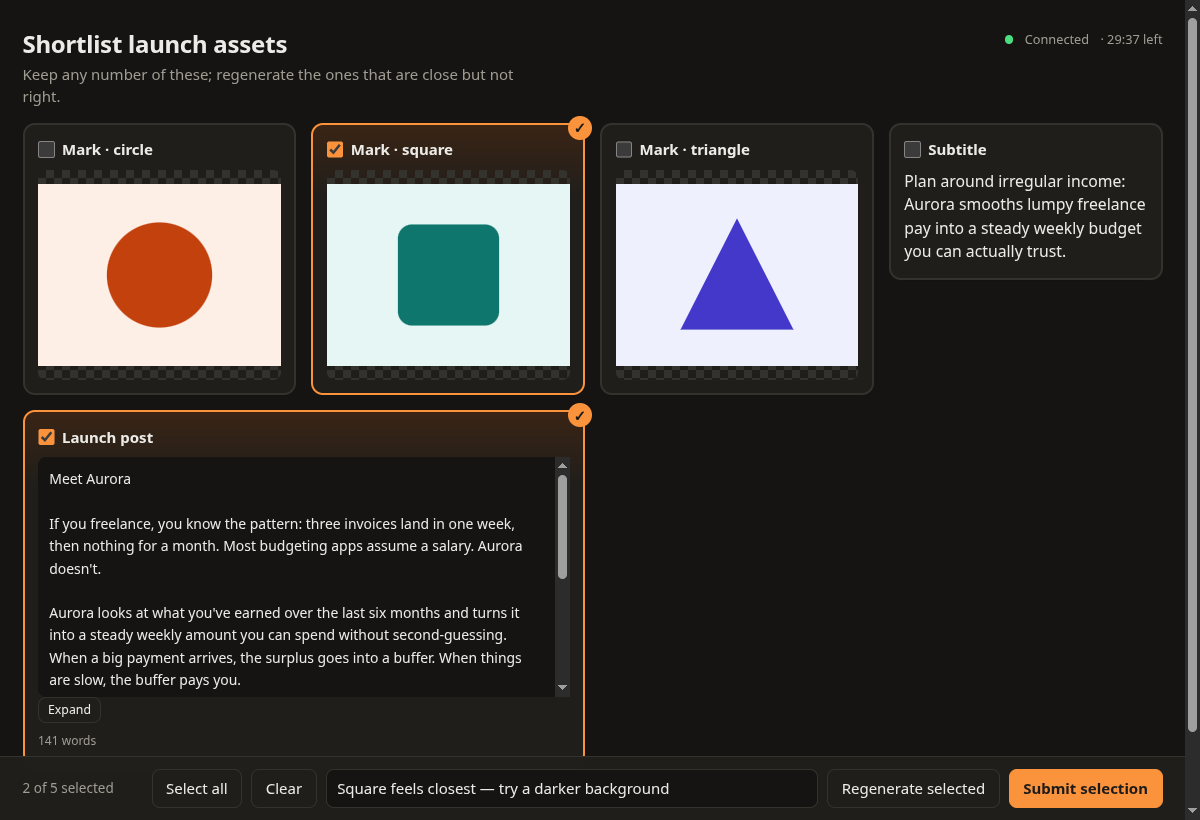
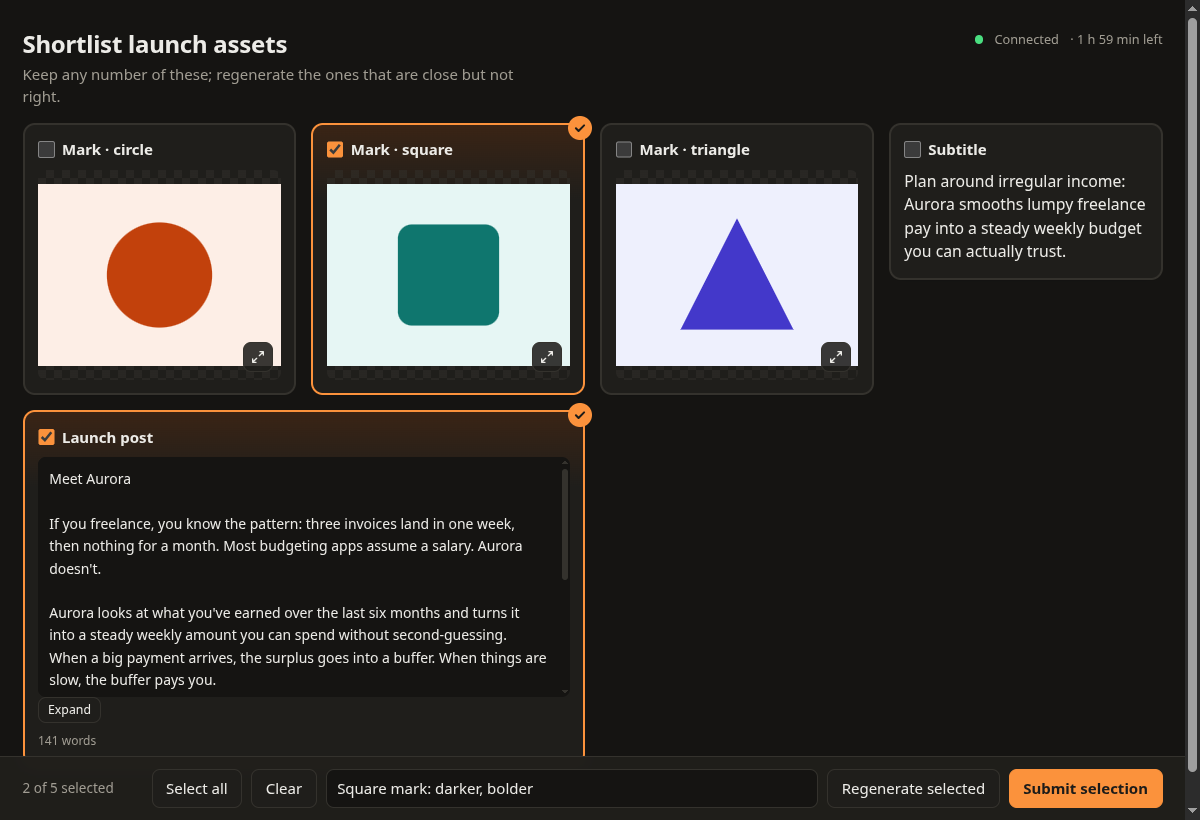
ui: image click selects, status in bar, mobile footer fix, a11y polish
From an impeccable critique + audit + polish pass on the picker page:
- image click toggles selection; full-size view moves to a corner button
- status banner lives in the fixed bar and names what was sent
- page reserves the bar's measured height (bar covered ~75px on phones)
- timer no longer inside a live region; h/min format, warns under 5 min
- server refusals shown inline instead of alert(); 401 locks the page
- placeholder contrast to AA, Ctrl/Cmd+Enter submits, drawn SVG icons
- refreshed README screenshots

diff --git a/skills/claude-select/scripts/ui.html b/skills/claude-select/scripts/ui.html
@@ -25,44 +25,48 @@
   button:disabled { opacity: .45; cursor: not-allowed; }
   button.primary { background: var(--accent); border-color: var(--accent); color: var(--on-accent); font-weight: 600; }
   :focus-visible { outline: 2px solid var(--accent); outline-offset: 2px; }
+  ::selection { background: color-mix(in srgb, var(--accent) 28%, transparent); }
+  svg { display: block; fill: none; stroke: currentColor; stroke-linecap: round; stroke-linejoin: round; }
 
   header.top { max-width: 80rem; margin: 0 auto; padding: 2rem 1.5rem 1rem; display: flex; gap: 1rem;
                align-items: flex-start; justify-content: space-between; flex-wrap: wrap; }
   h1 { font-size: 1.6rem; line-height: 1.2; margin: 0 0 .25rem; letter-spacing: -.01em; }
   .desc { color: var(--muted); margin: 0; max-width: 60ch; white-space: pre-wrap; }
-  .meta-row { display: flex; gap: .75rem; align-items: center; color: var(--muted); font-size: .85rem; }
+  .meta-row { display: flex; gap: .75rem; align-items: center; color: var(--muted); font-size: .85rem;
+              font-variant-numeric: tabular-nums; }
+  .late #timer { color: var(--warn); font-weight: 600; }
   .dot { width: .55rem; height: .55rem; border-radius: 50%; background: var(--ok); display: inline-block; }
   .offline .dot { background: var(--warn); animation: pulse 1s infinite alternate; }
   @keyframes pulse { to { opacity: .3; } }
 
-  .banner { max-width: 80rem; margin: 0 auto 1rem; padding: 0 1.5rem; }
-  .banner p { margin: 0; padding: .75rem 1rem; border-radius: var(--radius); background: var(--accent-soft); }
-  .banner:empty { display: none; }
-
-  main { max-width: 80rem; margin: 0 auto; padding: 0 1.5rem 9rem; display: grid; gap: 1rem;
-         grid-template-columns: repeat(auto-fill, minmax(18rem, 1fr)); align-items: start; }
+  main { max-width: 80rem; margin: 0 auto; padding: 0 1.5rem calc(var(--bar-h, 9rem) + 1.5rem); display: grid; gap: 1rem;
+         grid-template-columns: repeat(auto-fill, minmax(min(18rem, 100%), 1fr)); align-items: start; }
   @media (min-width: 44rem) { .card[data-type="long_text"] { grid-column: span 2; } }
 
   .card { position: relative; background: var(--surface); border: 2px solid var(--line); border-radius: var(--radius);
           box-shadow: var(--shadow); padding: .9rem; display: flex; flex-direction: column; gap: .6rem;
-          cursor: pointer; transition: border-color .12s, transform .12s; }
+          cursor: pointer; transition: border-color .12s; }
   .card:hover { border-color: var(--muted); }
   .card:has(input:checked) { border-color: var(--accent); background: linear-gradient(var(--accent-soft), var(--surface) 5rem); }
   .card .head { display: flex; align-items: center; gap: .5rem; }
   .card label { display: flex; align-items: center; gap: .5rem; font-weight: 600; cursor: pointer; flex: 1; min-width: 0; }
-  .card label span { overflow: hidden; text-overflow: ellipsis; white-space: nowrap; }
+  .card label span { overflow-wrap: anywhere; }
   .card input { accent-color: var(--accent); width: 1.1rem; height: 1.1rem; margin: 0; flex: none; }
   .badge { font-size: .72rem; color: var(--muted); border: 1px solid var(--line); border-radius: 99px; padding: 0 .45rem; }
   .check { position: absolute; top: -.6rem; right: -.6rem; width: 1.6rem; height: 1.6rem; border-radius: 50%;
-           background: var(--accent); color: var(--on-accent); display: none; place-items: center; font-weight: 700; }
+           background: var(--accent); color: var(--on-accent); display: none; place-items: center; }
   .card:has(input:checked) .check { display: grid; }
 
-  .zoom { padding: 0; border: 0; background: repeating-conic-gradient(var(--line) 0 25%, transparent 0 50%) 0 0 / 16px 16px;
-          border-radius: 8px; overflow: hidden; display: block; width: 100%; cursor: zoom-in; }
-  .zoom img { display: block; width: 100%; height: 14rem; object-fit: contain; }
+  /* Checkerboard shows transparency in images; kept faint so letterboxing doesn't read as a glitch. */
+  .frame { position: relative; border-radius: 8px; overflow: hidden;
+           background: repeating-conic-gradient(color-mix(in srgb, var(--line) 45%, transparent) 0 25%, transparent 0 50%) 0 0 / 16px 16px; }
+  .frame img { display: block; width: 100%; height: 14rem; object-fit: contain; }
+  .zoom { position: absolute; right: .5rem; bottom: .5rem; padding: .4rem; display: grid; place-items: center;
+          background: color-mix(in srgb, var(--surface) 88%, transparent); cursor: zoom-in; }
   .short { margin: 0; font-size: 1.05rem; white-space: pre-wrap; overflow-wrap: anywhere; }
   .long { white-space: pre-wrap; overflow-wrap: anywhere; max-height: 16rem; overflow: auto; padding: .75rem;
-          border-radius: 8px; background: var(--bg); font-size: .93rem; line-height: 1.6; }
+          border-radius: 8px; background: var(--bg); font-size: .93rem; line-height: 1.6;
+          scrollbar-width: thin; scrollbar-color: var(--line) transparent; }
   .long.open { max-height: none; }
   .more { align-self: flex-start; padding: .2rem .6rem; font-size: .82rem; }
   .meta { font-size: .8rem; color: var(--muted); display: flex; flex-wrap: wrap; gap: .25rem .75rem; }
@@ -77,14 +81,25 @@
                backdrop-filter: blur(8px); border-top: 1px solid var(--line); }
   .bar-inner { max-width: 80rem; margin: 0 auto; padding: .8rem 1.5rem; display: flex; gap: .6rem;
                align-items: center; flex-wrap: wrap; }
-  .count { color: var(--muted); font-size: .9rem; min-width: 8rem; }
+  .count { color: var(--muted); font-size: .9rem; min-width: 8rem; font-variant-numeric: tabular-nums; }
   #feedback { flex: 1 1 16rem; font: inherit; padding: .5rem .7rem; border-radius: 8px; border: 1px solid var(--line);
-              background: var(--bg); color: var(--ink); }
+              background: var(--bg); color: var(--ink); caret-color: var(--accent); }
+  #feedback::placeholder { color: var(--muted); opacity: 1; }
+  .banner { max-width: 80rem; margin: 0 auto; padding: .8rem 1.5rem 0; }
+  .banner p { margin: 0; padding: .6rem .9rem; border-radius: 8px; background: var(--accent-soft); }
+  .banner:empty { display: none; }
+  /* Narrow: count + list actions, then the note, then the two decisions side by side. */
+  @media (max-width: 40rem) {
+    .count { flex: 1; min-width: 0; }
+    #feedback { flex-basis: 100%; }
+    #regen, #submit { flex: 1 1 auto; }
+  }
+  @media (pointer: coarse) { button, #feedback { min-height: 2.75rem; } .zoom { min-width: 2.75rem; } }
 
   dialog { border: 0; padding: 0; background: transparent; max-width: 95vw; max-height: 95vh; }
   dialog::backdrop { background: rgb(0 0 0 / .8); }
   dialog img { width: 90vw; height: 90vh; object-fit: contain; display: block; cursor: zoom-out; }
-  @media (prefers-reduced-motion: reduce) { * { animation: none !important; transition: none !important; } }
+  @media (prefers-reduced-motion: reduce) { .offline .dot { animation: none; } }
 </style>
 </head>
 <body>
@@ -93,20 +108,21 @@
     <h1 id="title">Loading…</h1>
     <p class="desc" id="desc"></p>
   </div>
-  <div class="meta-row" id="conn" aria-live="polite"><span class="dot"></span><span id="conn-text">Connected</span>
+  <div class="meta-row" id="conn"><span class="dot"></span><span id="conn-text" aria-live="polite">Connected</span>
     <span id="timer"></span></div>
 </header>
-<div class="banner" id="banner" role="status" aria-live="polite"></div>
 <main id="grid" aria-label="Options"></main>
-<footer class="bar">
+<footer class="bar" id="bar">
+  <!-- Status lives in the bar, next to the buttons that cause it, so it is never scrolled out of view. -->
+  <div class="banner" id="banner" role="status" aria-live="polite"></div>
   <div class="bar-inner">
     <span class="count" id="count" aria-live="polite"></span>
     <button id="all" hidden>Select all</button>
     <button id="clear" hidden>Clear</button>
-    <input id="feedback" type="text" placeholder="Optional note for the agent (what to change, why you picked it)"
-           aria-label="Feedback for the agent" maxlength="2000">
+    <input id="feedback" type="text" placeholder="Optional note for the agent"
+           aria-label="Note for the agent: what to change, or why you picked it" maxlength="2000">
     <button id="regen">Regenerate selected</button>
-    <button id="submit" class="primary">Submit selection</button>
+    <button id="submit" class="primary" title="Ctrl+Enter" aria-keyshortcuts="Control+Enter Meta+Enter">Submit selection</button>
   </div>
 </footer>
 <dialog id="viewer" aria-label="Full-size image"></dialog>
@@ -118,6 +134,9 @@ let S = null;            // last session snapshot from the server
 let selected = new Set();
 let sending = false;     // an event is in flight (possibly retrying)
 let online = true;
+let error = '';          // last refusal from the server, shown until the next send
+const ICON_CHECK = '<svg width="14" height="14" viewBox="0 0 24 24" stroke-width="3.5"><path d="M5 12.5l4.5 4.5L19 7.5"/></svg>';
+const ICON_ZOOM = '<svg width="16" height="16" viewBox="0 0 24 24" stroke-width="2"><path d="M15 4h5v5M9 20H4v-5M20 4l-6 6M4 20l6-6"/></svg>';
 
 async function api(path, body) {
   const r = await fetch(path, {
@@ -144,6 +163,9 @@ function el(tag, props = {}, ...kids) {
   n.append(...kids.filter(k => k != null));
   return n;
 }
+// Assigning the same text still replaces the node, which makes screen readers repeat live regions.
+function setText(n, s) { if (n.textContent !== s) n.textContent = s; }
+const label = it => (it.metadata || {}).label || (it.metadata || {}).title || it.id;
 
 function card(it, prevRev) {
   const type = S.mode === 'single' ? 'radio' : 'checkbox';
@@ -153,21 +175,24 @@ function card(it, prevRev) {
     saveSel(); sync();
   });
   const md = it.metadata || {};
-  const title = md.label || md.title || it.id;
+  const title = label(it);
   const head = el('div', { className: 'head' },
-    el('label', { htmlFor: input.id }, input, el('span', { textContent: title, title })),
+    el('label', { htmlFor: input.id }, input, el('span', { textContent: title })),
     it.revision > 1 ? el('span', { className: 'badge', textContent: 'v' + it.revision, title: 'Regenerated' }) : null);
 
   let body;
   if (it.type === 'image') {
+    // The image itself selects, like the rest of the card; zoom has its own button.
     const img = el('img', { src: it.src, alt: md.alt || title, loading: 'lazy' });
-    img.addEventListener('error', () => img.replaceWith(el('p', { className: 'short', textContent: 'Image failed to load.' })));
-    body = el('button', { className: 'zoom', type: 'button', title: 'View full size' }, img);
-    body.addEventListener('click', () => { $('viewer').replaceChildren(el('img', { src: it.src, alt: img.alt })); $('viewer').showModal(); });
+    const zoom = el('button', { className: 'zoom', type: 'button', title: 'View full size',
+                                ariaLabel: `View ${title} full size`, innerHTML: ICON_ZOOM });
+    zoom.addEventListener('click', () => { $('viewer').replaceChildren(el('img', { src: it.src, alt: img.alt })); $('viewer').showModal(); });
+    body = el('div', { className: 'frame' }, img, zoom);
+    img.addEventListener('error', () => body.replaceWith(el('p', { className: 'short', textContent: 'Image failed to load.' })));
   } else if (it.type === 'short_text') {
     body = el('p', { className: 'short', textContent: it.content });
   } else {
-    const box = el('div', { className: 'long', textContent: it.content, tabIndex: 0 });
+    const box = el('div', { className: 'long', textContent: it.content, tabIndex: 0, role: 'region', ariaLabel: title });
     const more = el('button', { className: 'more', type: 'button', textContent: 'Expand' });
     more.addEventListener('click', () => { more.textContent = box.classList.toggle('open') ? 'Collapse' : 'Expand'; });
     body = el('div', {}, box);
@@ -180,7 +205,7 @@ function card(it, prevRev) {
     .map(([k, v]) => el('span', { textContent: `${k}: ${typeof v === 'object' ? JSON.stringify(v) : v}` }));
   if (it.type === 'long_text') extra.push(el('span', { textContent: `${words.toLocaleString()} words` }));
 
-  const c = el('article', { className: 'card' }, el('span', { className: 'check', textContent: '✓', ariaHidden: 'true' }),
+  const c = el('article', { className: 'card' }, el('span', { className: 'check', innerHTML: ICON_CHECK, ariaHidden: 'true' }),
     head, body, extra.length ? el('div', { className: 'meta' }, ...extra) : null);
   c.dataset.type = it.type;
   c.dataset.id = it.id;
@@ -213,32 +238,40 @@ function sync() {
   const pending = new Set(S.pending);
   for (const c of document.querySelectorAll('.card')) {
     c.classList.toggle('regen', pending.has(c.dataset.id));
+    c.ariaBusy = String(pending.has(c.dataset.id));
     c.querySelector('input').checked = selected.has(c.dataset.id);
   }
   const open = S.status === 'open' && !pending.size && !sending;
   const n = selected.size;
-  $('count').textContent = S.mode === 'single'
+  setText($('count'), S.mode === 'single'
     ? (n ? '1 selected' : 'Pick one option')
-    : `${n} of ${S.items.length} selected`;
+    : `${n} of ${S.items.length} selected`);
   $('submit').disabled = !open || (S.mode === 'single' && n !== 1);
   $('regen').disabled = !open || !n;
   $('all').disabled = !open || n === S.items.length;
   $('clear').disabled = !open || !n;
   for (const i of document.querySelectorAll('.card input')) i.disabled = !open;
-  const msg = sending ? (online ? 'Sending…' : 'Sending… the connection dropped; retrying until it is back.')
-    : pending.size ? `The agent is regenerating ${pending.size} option${pending.size > 1 ? 's' : ''}. They update here automatically.`
-    : S.status === 'submitted' ? 'Sent. The agent has your choice. You can close this tab.'
-    : S.status === 'expired' ? 'This selection timed out. Ask the agent in chat to reopen it.'
-    : '';
-  $('banner').replaceChildren(...(msg ? [el('p', { textContent: msg })] : []));
   const r = S.remaining_s;
-  $('timer').textContent = S.status === 'open' ? `· ${Math.floor(r / 60)}:${String(r % 60).padStart(2, '0')} left` : '';
+  const late = S.status === 'open' && r < 300;
+  const picked = S.items.filter(i => selected.has(i.id)).map(label).join(', ');
+  const msg = sending ? (online ? 'Sending…' : 'Sending… the connection dropped; retrying until it is back.')
+    : error && S.status === 'open' ? error
+    : pending.size ? `The agent is regenerating ${pending.size} option${pending.size > 1 ? 's' : ''}. They update here automatically.`
+    : S.status === 'submitted' ? `Sent: ${picked || 'none of the options'}. The agent has your choice; you can close this tab.`
+    : S.status === 'expired' ? 'This selection timed out. Ask the agent in chat to reopen it.'
+    : late ? 'Under 5 minutes left. Submit soon, or this selection times out.'
+    : '';
+  if ($('banner').textContent !== msg) $('banner').replaceChildren(...(msg ? [el('p', { textContent: msg })] : []));
+  const left = r >= 3600 ? `${Math.floor(r / 3600)} h ${Math.floor(r % 3600 / 60)} min`
+    : `${Math.floor(r / 60)}:${String(r % 60).padStart(2, '0')}`;
+  setText($('timer'), S.status === 'open' ? `· ${left} left` : '');
+  $('conn').classList.toggle('late', late);
 }
 
 async function send(action) {
   const ev = { client_event_id: crypto.randomUUID(), action, selected_ids: [...selected],
                feedback: $('feedback').value };
-  sending = true; sync();
+  sending = true; error = ''; sync();
   // Retry with the same client_event_id until the server answers; it drops duplicates.
   for (;;) {
     try {
@@ -249,7 +282,7 @@ async function send(action) {
       $('feedback').value = '';
       break;
     } catch (e) {
-      if (e.status) { alert('Could not send: ' + e.message); break; }  // server said no; don't retry
+      if (e.status) { error = `Could not send (${e.message}). The page refreshes its state; try again.`; break; }  // server said no; don't retry
       setOnline(false); sync();
       await new Promise(r => setTimeout(r, 2000));
     }
@@ -265,6 +298,11 @@ $('regen').addEventListener('click', () => send('regenerate'));
 $('all').addEventListener('click', () => { selected = new Set(S.items.map(i => i.id)); saveSel(); sync(); });
 $('clear').addEventListener('click', () => { selected.clear(); saveSel(); sync(); });
 $('viewer').addEventListener('click', () => $('viewer').close());
+addEventListener('keydown', e => {
+  if (e.key === 'Enter' && (e.ctrlKey || e.metaKey) && !$('submit').disabled) { e.preventDefault(); $('submit').click(); }
+});
+// Keep the last card clear of the fixed bar, whose height changes as it wraps and shows status.
+new ResizeObserver(() => document.body.style.setProperty('--bar-h', $('bar').offsetHeight + 'px')).observe($('bar'));
 
 async function refresh() {
   try {
@@ -274,7 +312,12 @@ async function refresh() {
     else { Object.assign(S, { status: s.status, pending: s.pending, remaining_s: s.remaining_s }); sync(); }
   } catch (e) {
     setOnline(false);
-    if (e.status === 401) { $('title').textContent = 'This link has expired. Ask the agent for a new one.'; return; }
+    if (e.status === 401) {  // token no longer valid: lock the page rather than let picks go nowhere
+      $('title').textContent = 'This link has expired. Ask the agent for a new one.';
+      $('conn-text').textContent = 'Disconnected';
+      if (S) { S.status = 'expired'; sync(); }
+      return;
+    }
   }
   setTimeout(refresh, 2000);
 }

diff --git a/CHANGELOG.md b/CHANGELOG.md
@@ -4,6 +4,25 @@ All notable changes to this project are documented here. The format follows
 [Keep a Changelog](https://keepachangelog.com/en/1.1.0/), and the project uses
 [Semantic Versioning](https://semver.org/).
 
+## [Unreleased]
+
+### Changed
+
+- Clicking an image now selects its card, like the rest of the card; full-size view
+  moved to a corner button.
+- Status messages (sending, sent, regenerating, errors) appear in the bottom bar next
+  to the buttons, and the sent message names what was picked.
+- Server refusals show in the page instead of a browser `alert()`; an expired link
+  locks the page.
+- The timer reads `1 h 59 min`, warns under 5 minutes, and is no longer read out by
+  screen readers on every poll. Ctrl/Cmd+Enter submits.
+
+### Fixed
+
+- On phones the bottom bar covered the last card; the page now reserves the bar's
+  real height, and the bar lays out in three rows.
+- Note placeholder contrast raised to WCAG AA in both themes.
+
 ## [0.1.1] - 2026-09-23
 
 ### Fixed

diff --git a/README.md b/README.md
@@ -25,7 +25,7 @@ structured JSON and carries on.
 ## Highlights
 
 - **Images, short text and long text** in one grid: png/jpg/svg/webp/gif with
-  click-to-zoom, snippets up to 500 characters, and long drafts that scroll and expand.
+  a full-size view, snippets up to 500 characters, and long drafts that scroll and expand.
 - **Single-winner or multi-winner** modes (radio or checkbox, 0..N), with
   Select all and Clear.
 - **Regenerate selected**: the agent receives each item's original prompt and
